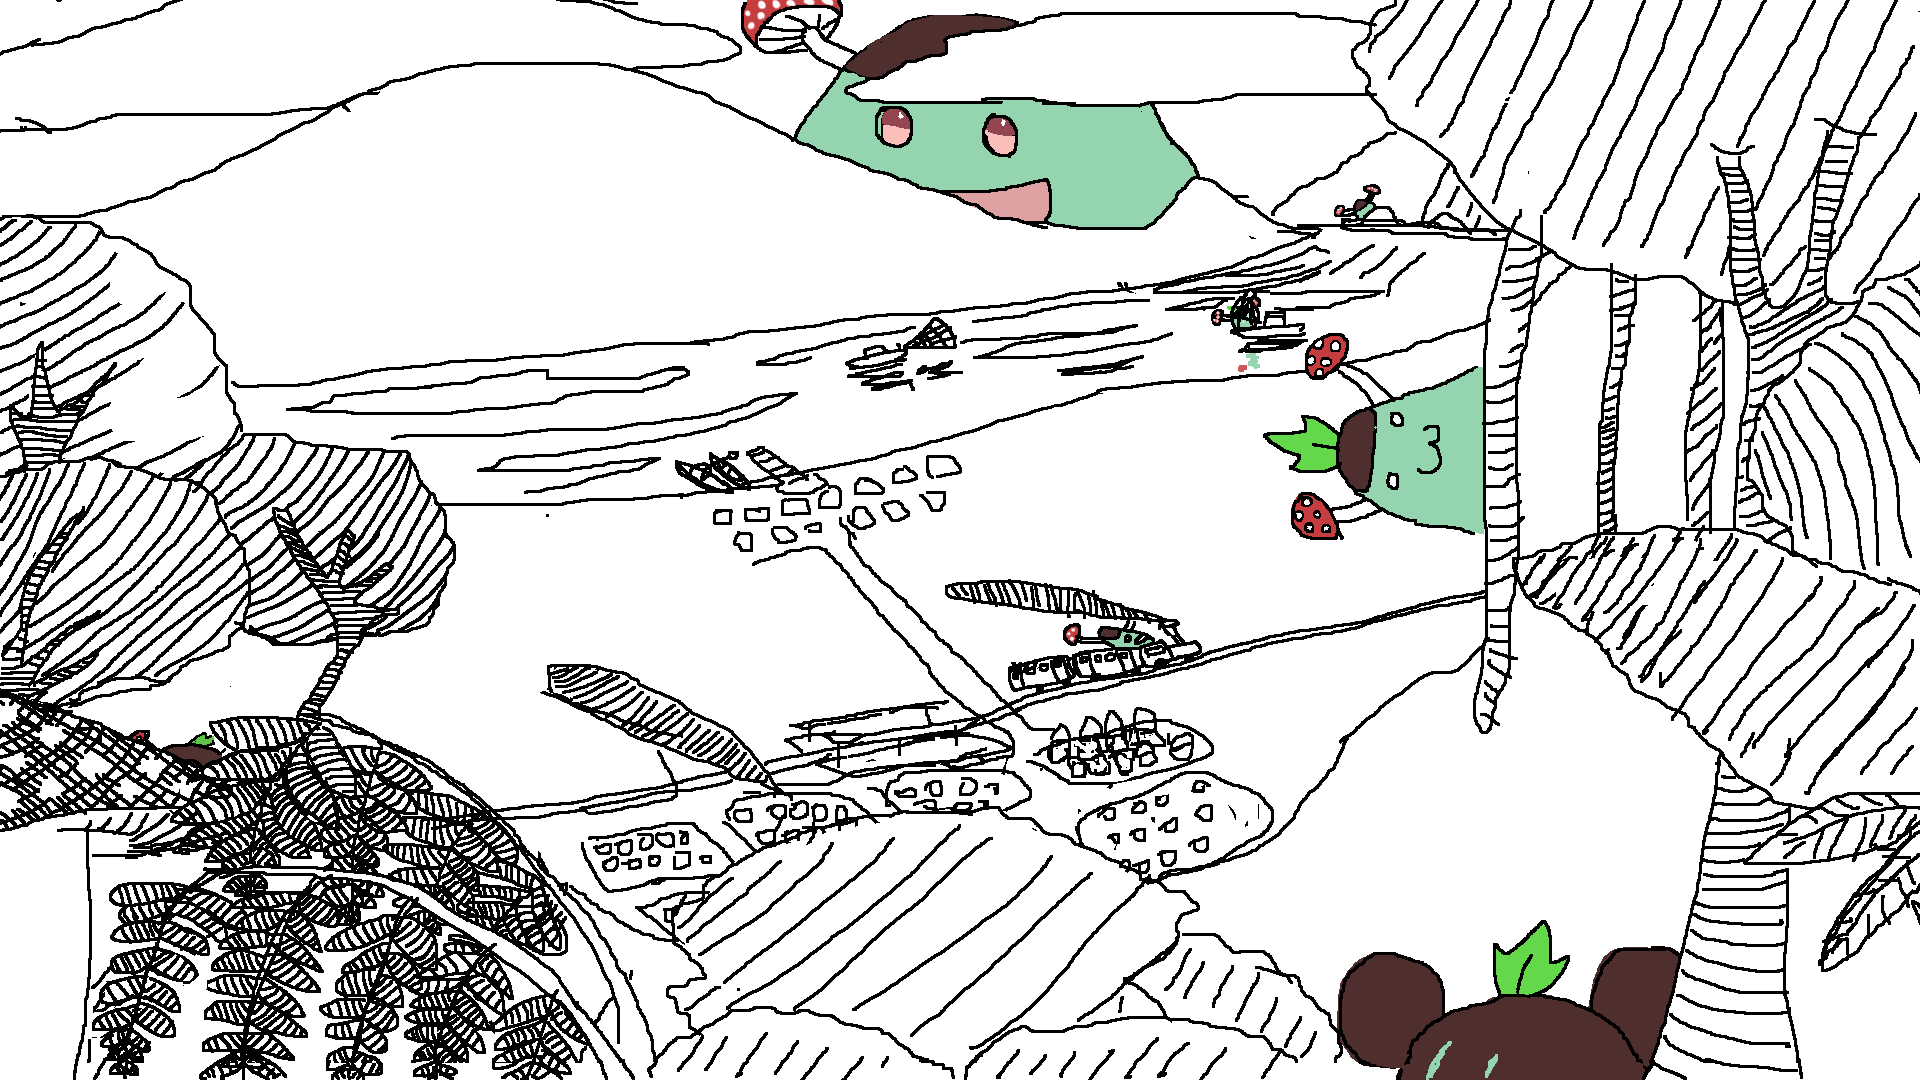
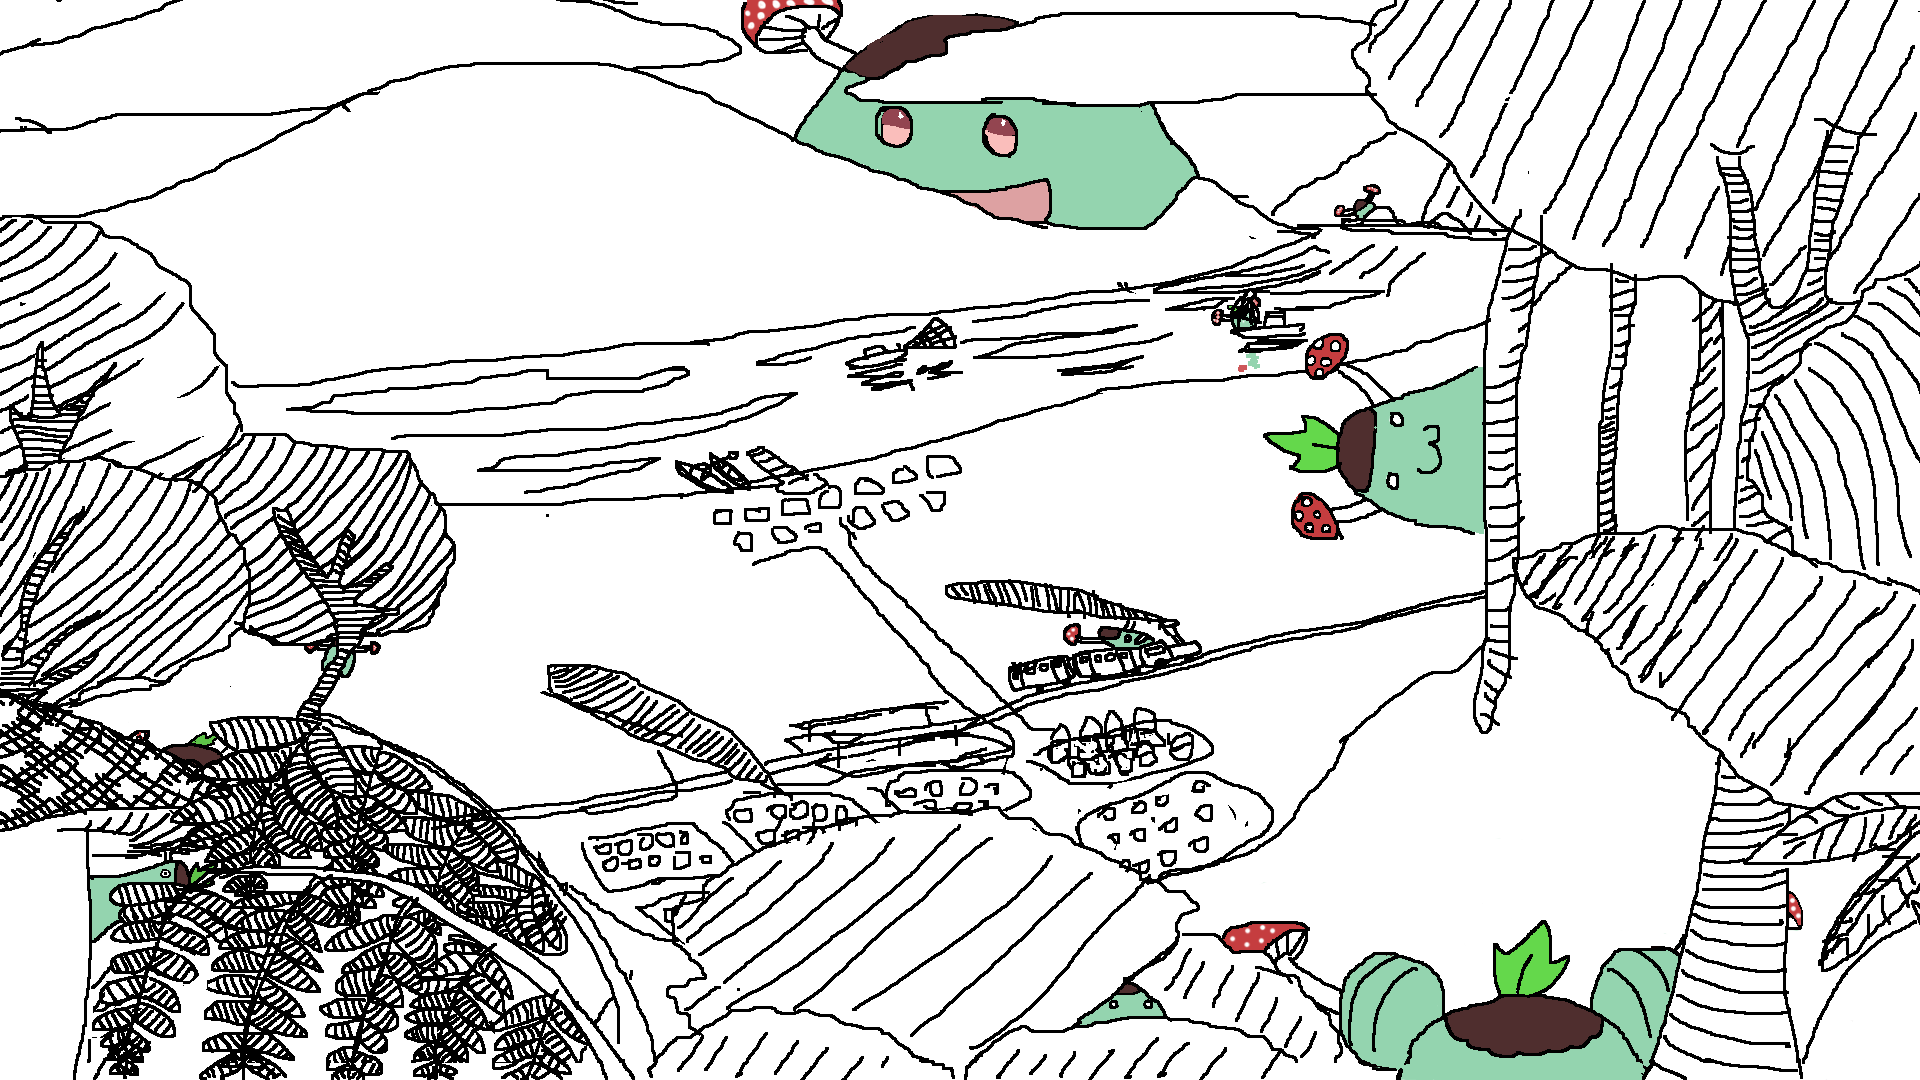
Update mountain stage

diff --git a/src/stages/mountain.ts b/src/stages/mountain.ts
@@ -135,6 +135,21 @@ export default {
       [1391, 1069],
       [1358, 1067],
       [1336, 1024],
+      [1334, 1013],
+      [1312, 1004],
+      [1301, 994],
+      [1272, 968],
+      [1260, 954],
+      [1231, 956],
+      [1217, 943],
+      [1226, 928],
+      [1252, 918],
+      [1301, 920],
+      [1310, 930],
+      [1308, 946],
+      [1298, 962],
+      [1326, 979],
+      [1339, 985],
       [1345, 969],
       [1375, 947],
       [1442, 970],
@@ -154,7 +169,60 @@ export default {
       [1593, 966],
       [1609, 943],
       [1660, 942],
-      [1683, 947],
+      [1675, 944],
+      [1791, 890],
+      [1803, 905],
+      [1802, 930],
+      [1787, 931],
+      [1787, 896],
+      [1684, 942],
+    ]),
+    new Polygon([
+      [1130, 976],
+      [1158, 997],
+      [1169, 1019],
+      [1163, 1023],
+      [1125, 1021],
+      [1091, 1029],
+      [1071, 1028],
+      [1078, 1014],
+    ]),
+    new Polygon([
+      [220, 859],
+      [219, 871],
+      [191, 889],
+      [144, 883],
+      [121, 888],
+      [114, 897],
+      [129, 902],
+      [124, 916],
+      [121, 925],
+      [90, 948],
+      [85, 941],
+      [83, 871],
+      [117, 873],
+      [161, 859],
+      [162, 843],
+      [176, 845],
+      [175, 856],
+      [190, 861],
+      [203, 860],
+    ]),
+    new Polygon([
+      [359, 658],
+      [348, 681],
+      [321, 673],
+      [320, 661],
+      [321, 654],
+      [304, 656],
+      [300, 645],
+      [309, 638],
+      [330, 633],
+      [340, 643],
+      [364, 643],
+      [371, 635],
+      [382, 643],
+      [379, 657],
     ]),
   ],
 }
